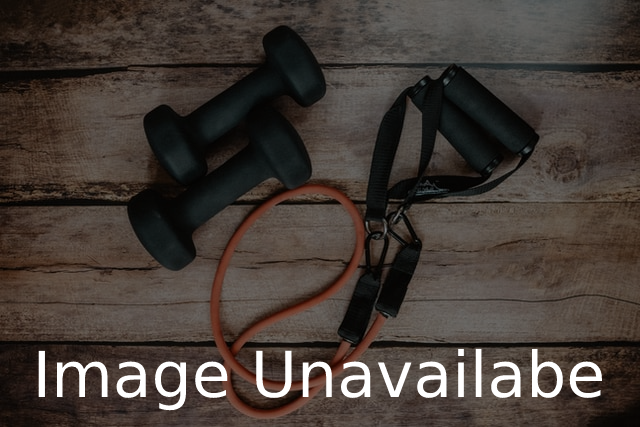
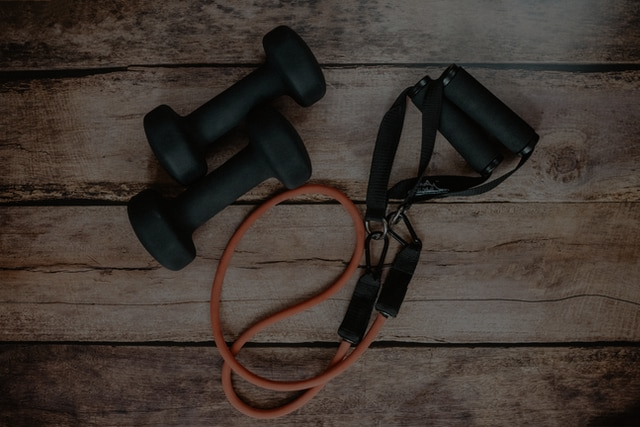
added base image

Changed region(s): [[0.0625, 0.822, 0.9375, 0.9742]]

diff --git a/lib/widgets/workout_tile.dart b/lib/widgets/workout_tile.dart
@@ -24,7 +24,7 @@ class WorkoutTile extends StatelessWidget {
           Ink.image(
             fit: BoxFit.cover,
             image: workout.bannerImage.isEmpty
-                ? AssetImage('asset/images/BannerImageUnavailable.png')
+                ? AssetImage('assets/images/BannerImageUnavailable.png')
                 : AssetImage(workout.bannerImage),
             child: InkWell(
               onTap: () {},
@@ -46,7 +46,7 @@ class WorkoutTile extends StatelessWidget {
                   fontSize: (_mediaQuery.size.height - _appBarHieght) * 0.06,
                   shadows: <Shadow>[
                     Shadow(
-                      offset: Offset(4.0, 4.0),
+                      offset: Offset(3.0, 3.0),
                       blurRadius: 1.0,
                       color: Color.fromARGB(255, 128, 128, 128),
                     ),

diff --git a/lib/widgets/search_result_workouts.dart b/lib/widgets/search_result_workouts.dart
@@ -23,6 +23,7 @@ class SearchResultWorkouts extends StatelessWidget {
         padding: EdgeInsets.all(15),
         child: ListView.builder(
           itemBuilder: (ctx, index) => WorkoutTile(workouts[index]),
+          itemCount: workouts.length,
         ),
       ),
     );
